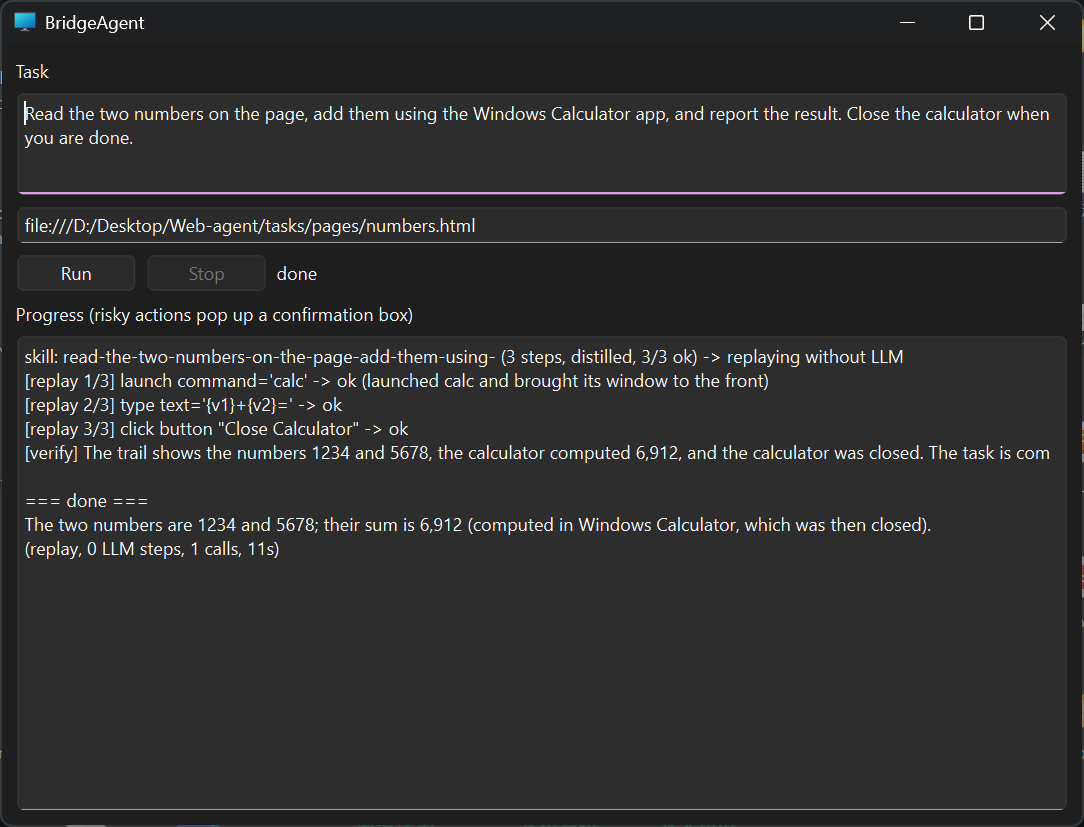
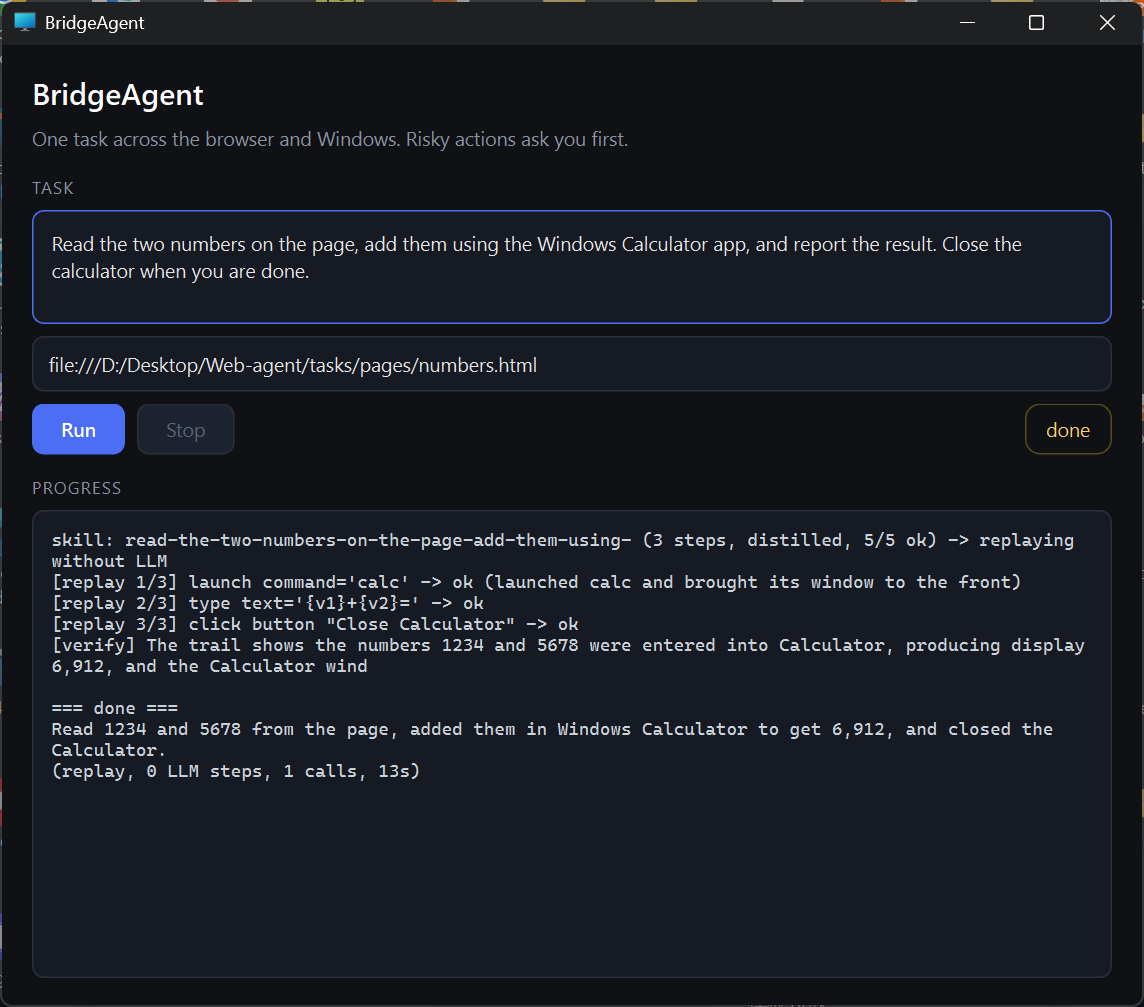
Restyle the desktop window and refresh its screenshot

diff --git a/src/bridgeagent/gui.py b/src/bridgeagent/gui.py
@@ -35,6 +35,24 @@ from .agent import Agent
 from .config import load_settings
 from .llm import make_planner
 
+STYLE = """
+QMainWindow, QWidget { background: #0f1115; color: #e6e6e6; font-family: 'Segoe UI'; font-size: 13px; }
+QLabel#title { font-size: 20px; font-weight: 600; color: #ffffff; }
+QLabel#subtitle { color: #8b93a3; }
+QLabel#section { color: #8b93a3; font-size: 11px; letter-spacing: 1px; }
+QLabel#status { color: #8b93a3; padding: 4px 10px; border: 1px solid #2a2f3a; border-radius: 10px; }
+QPlainTextEdit, QLineEdit { background: #161a22; border: 1px solid #2a2f3a; border-radius: 8px; padding: 8px; selection-background-color: #3b5bdb; }
+QPlainTextEdit:focus, QLineEdit:focus { border-color: #4c6ef5; }
+QPlainTextEdit#log { font-family: 'Cascadia Mono', Consolas, monospace; font-size: 12px; color: #c9d1d9; }
+QPushButton { background: #1c2230; border: 1px solid #2a2f3a; border-radius: 8px; padding: 7px 18px; color: #e6e6e6; }
+QPushButton:hover { background: #242b3b; }
+QPushButton:disabled { color: #5c6475; }
+QPushButton#run { background: #4c6ef5; border-color: #4c6ef5; color: white; font-weight: 600; }
+QPushButton#run:hover { background: #5c7cfa; }
+QPushButton#run:disabled { background: #2b3550; border-color: #2b3550; color: #7f8aa5; }
+QPushButton#stop:enabled { color: #ff8787; border-color: #5a1f1f; }
+"""
+
 
 class _Bus(QObject):
     line = Signal(str)
@@ -45,7 +63,7 @@ class Window(QMainWindow):
     def __init__(self, task: str = "", start_url: str = "", autorun: bool = False, quit_when_done: bool = False):
         super().__init__()
         self.setWindowTitle("BridgeAgent")
-        self.resize(720, 520)
+        self.resize(760, 640)
         self.bus = _Bus()
         self.bus.line.connect(self._append)
         self.bus.finished.connect(self._done)
@@ -54,36 +72,73 @@ class Window(QMainWindow):
 
         self.task = QPlainTextEdit(task)
         self.task.setPlaceholderText(
-            "What should the agent do? e.g. Open the invoices folder in Explorer, upload the newest one to the form."
+            "What should the agent do? e.g. Open the invoices folder in Explorer and upload the newest one to the form."
         )
-        self.task.setFixedHeight(70)
+        self.task.setFixedHeight(76)
         self.url = QLineEdit(start_url)
         self.url.setPlaceholderText("Start URL (optional)")
         self.run_btn = QPushButton("Run")
+        self.run_btn.setObjectName("run")
         self.stop_btn = QPushButton("Stop")
+        self.stop_btn.setObjectName("stop")
         self.stop_btn.setEnabled(False)
         self.status = QLabel("idle")
+        self.status.setObjectName("status")
         self.log = QPlainTextEdit()
+        self.log.setObjectName("log")
         self.log.setReadOnly(True)
         self.run_btn.clicked.connect(self.start)
         self.stop_btn.clicked.connect(self.stop)
 
+        title = QLabel("BridgeAgent")
+        title.setObjectName("title")
+        subtitle = QLabel("One task across the browser and Windows. Risky actions ask you first.")
+        subtitle.setObjectName("subtitle")
         row = QHBoxLayout()
         row.addWidget(self.run_btn)
         row.addWidget(self.stop_btn)
-        row.addWidget(self.status, 1)
+        row.addStretch(1)
+        row.addWidget(self.status)
         layout = QVBoxLayout()
-        for w in (QLabel("Task"), self.task, self.url):
-            layout.addWidget(w)
+        layout.setContentsMargins(20, 18, 20, 18)
+        layout.setSpacing(8)
+        layout.addWidget(title)
+        layout.addWidget(subtitle)
+        layout.addSpacing(8)
+        layout.addWidget(self._section("TASK"))
+        layout.addWidget(self.task)
+        layout.addWidget(self.url)
         layout.addLayout(row)
-        layout.addWidget(QLabel("Progress (risky actions pop up a confirmation box)"))
+        layout.addSpacing(6)
+        layout.addWidget(self._section("PROGRESS"))
         layout.addWidget(self.log, 1)
         root = QWidget()
         root.setLayout(layout)
         self.setCentralWidget(root)
+        self.setStyleSheet(STYLE)
         self._tray()
         if autorun and task:
             self.start()
+
+    @staticmethod
+    def _section(text: str) -> QLabel:
+        label = QLabel(text)
+        label.setObjectName("section")
+        return label
+
+    STATUS_COLORS = {
+        "idle": ("#8b93a3", "#2a2f3a"),
+        "running": ("#ffd166", "#5a4b1a"),
+        "done": ("#6ee7a0", "#1f5a3a"),
+        "failed": ("#ff6b6b", "#5a1f1f"),
+    }
+
+    def _set_status(self, text: str, state: str) -> None:
+        color, border = self.STATUS_COLORS.get(state, self.STATUS_COLORS["idle"])
+        self.status.setText(text)
+        self.status.setStyleSheet(
+            f"color: {color}; border: 1px solid {border}; border-radius: 10px; padding: 4px 10px;"
+        )
 
     def _tray(self) -> None:
         icon = self.style().standardIcon(QStyle.StandardPixmap.SP_ComputerIcon)
@@ -106,7 +161,7 @@ class Window(QMainWindow):
         if not task or self.agent is not None:
             return
         self.log.clear()
-        self.status.setText("running")
+        self._set_status("running", "running")
         self.run_btn.setEnabled(False)
         self.stop_btn.setEnabled(True)
         settings = load_settings()
@@ -131,7 +186,7 @@ class Window(QMainWindow):
     def stop(self) -> None:
         if self.agent is not None:
             self.agent.stop_requested = True
-            self.status.setText("stopping after the current step...")
+            self._set_status("stopping after this step", "running")
 
     def _append(self, line: str) -> None:
         self.log.appendPlainText(line)
